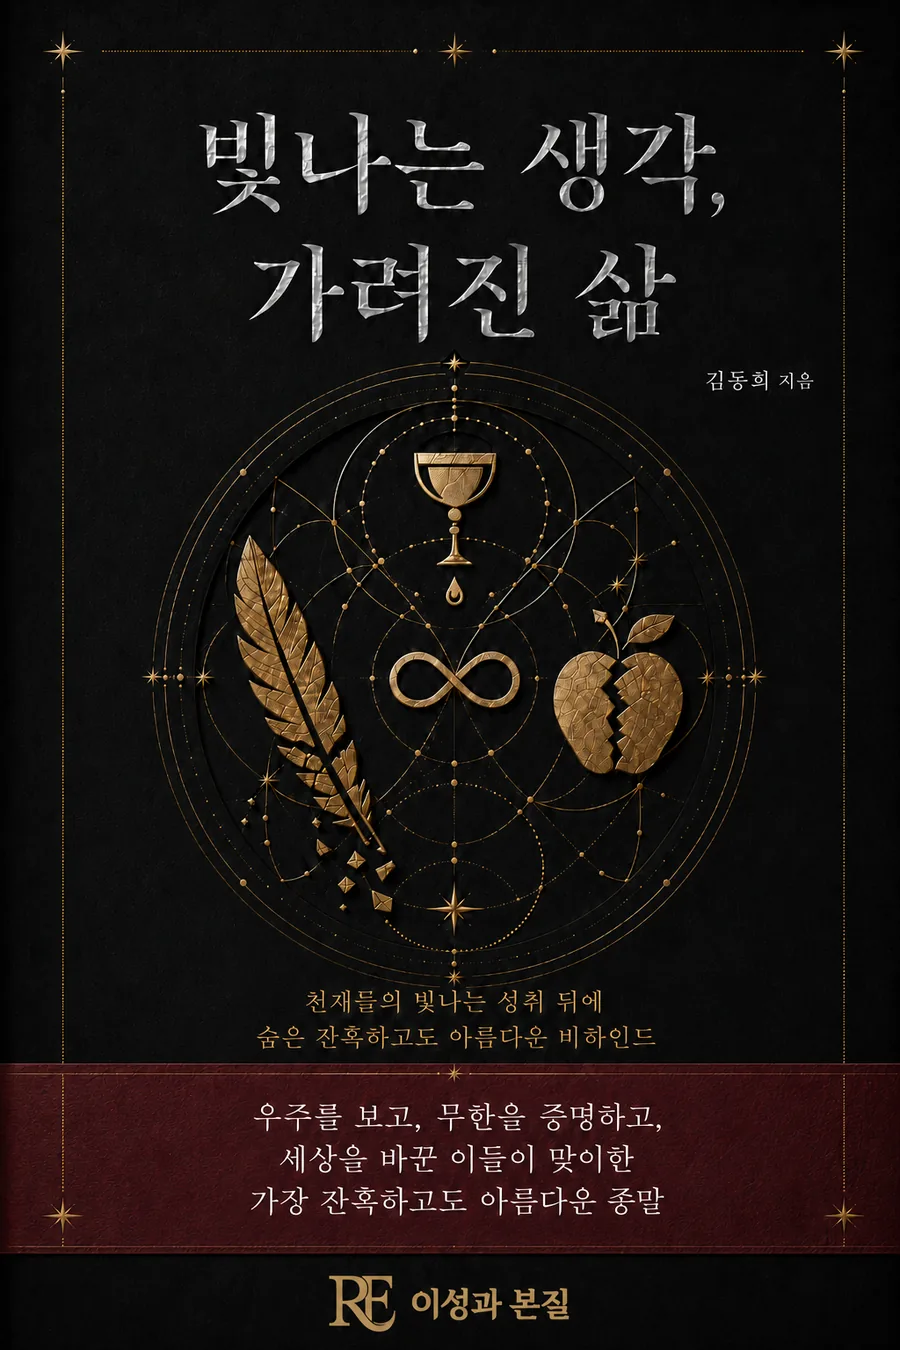
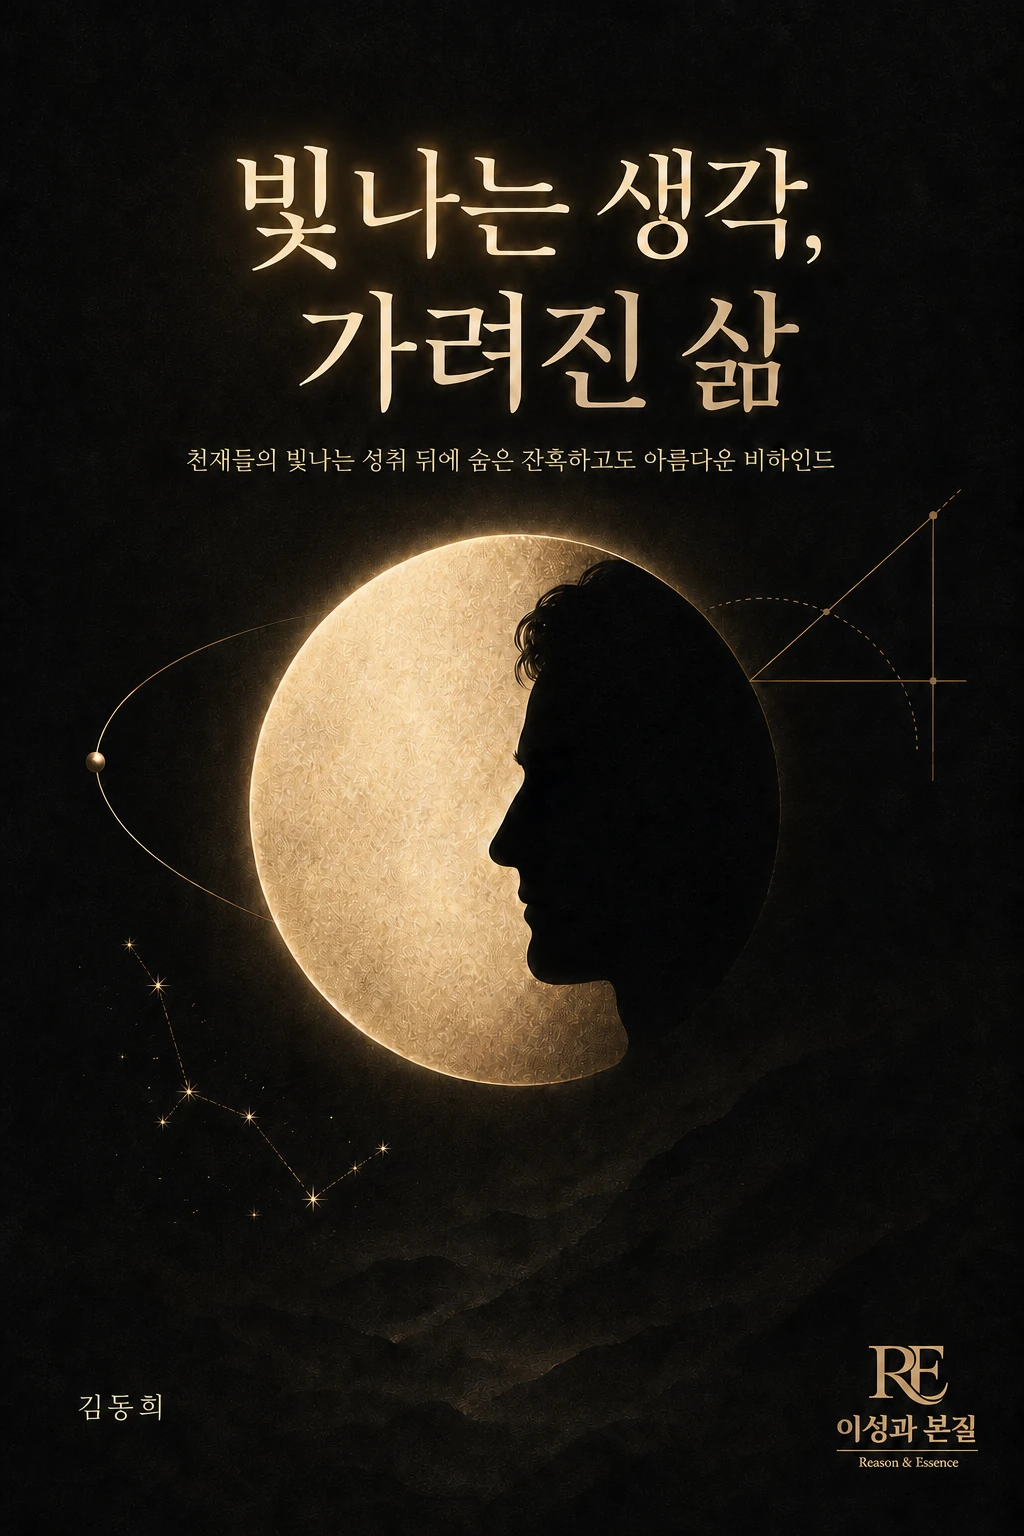
출간 배지 제거 및 도서 표지 3종 교체

diff --git a/js/main.js b/js/main.js
@@ -163,10 +163,6 @@ document.addEventListener("DOMContentLoaded", () => {
     return pub.concat(rest);
   }
 
-  function publishedBadge(b) {
-    return isPublished(b) ? `<span class="pub-badge">출간</span>` : "";
-  }
-
   function buyButtonHTML(b, variant) {
     const stores = storeList(b);
     if (!stores.length) return "";
@@ -181,7 +177,6 @@ document.addEventListener("DOMContentLoaded", () => {
         <a class="book-card-link" href="books/${b.id}.html">
           <div class="cover">
             <img src="${coverSrc(b)}" alt="${b.title} 표지" loading="lazy">
-            ${publishedBadge(b)}
           </div>
           <div class="meta">
             <div class="status">${statusLabel(b)}</div>
@@ -199,7 +194,6 @@ document.addEventListener("DOMContentLoaded", () => {
         <a class="book-row-link" href="books/${b.id}.html">
           <div class="cover">
             <img src="${coverSrc(b)}" alt="${b.title} 표지" loading="lazy">
-            ${publishedBadge(b)}
           </div>
           <div class="info">
             <div class="status">${statusLabel(b)}</div>
